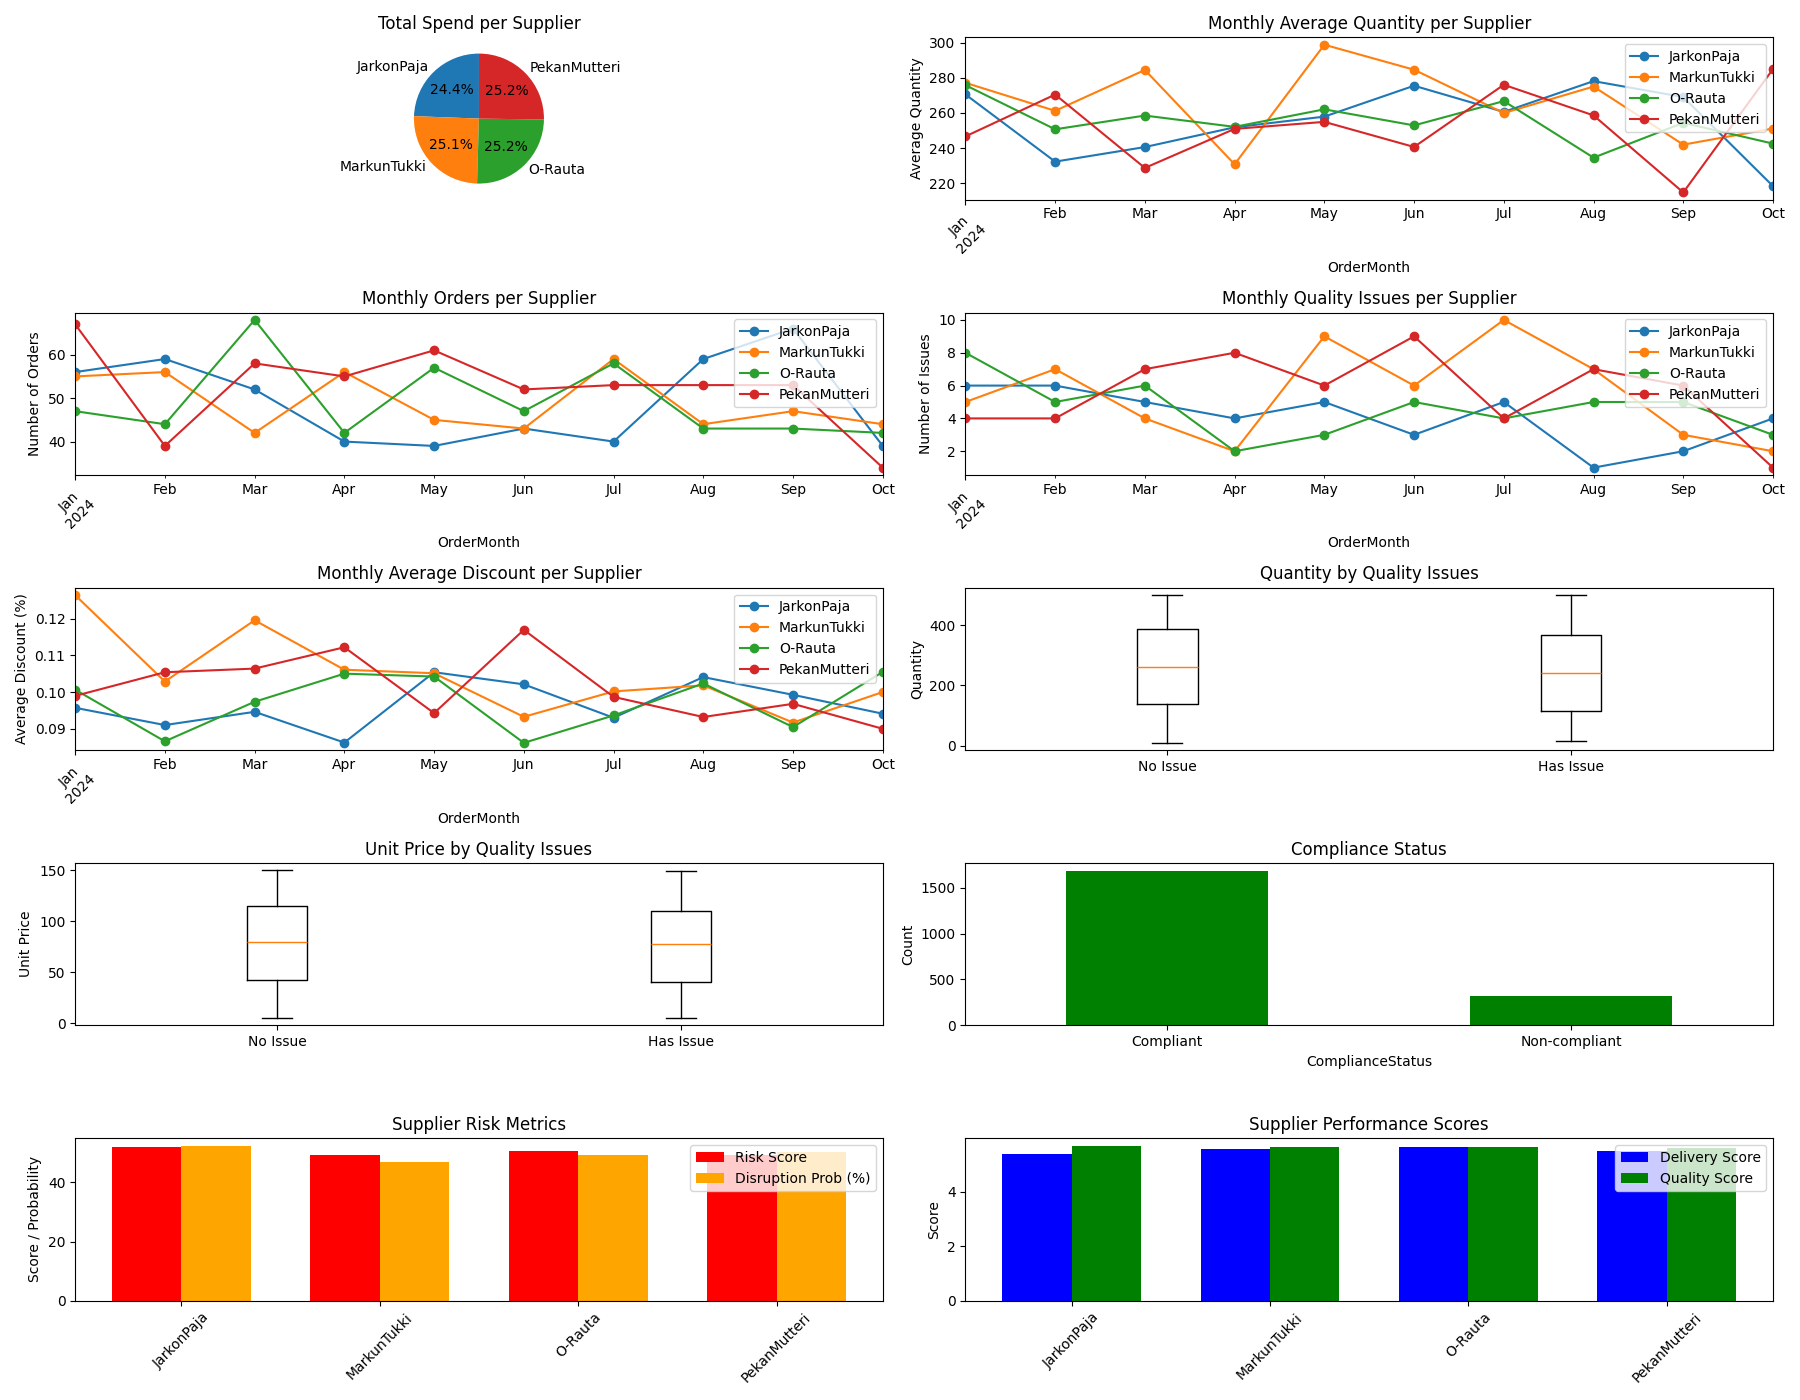
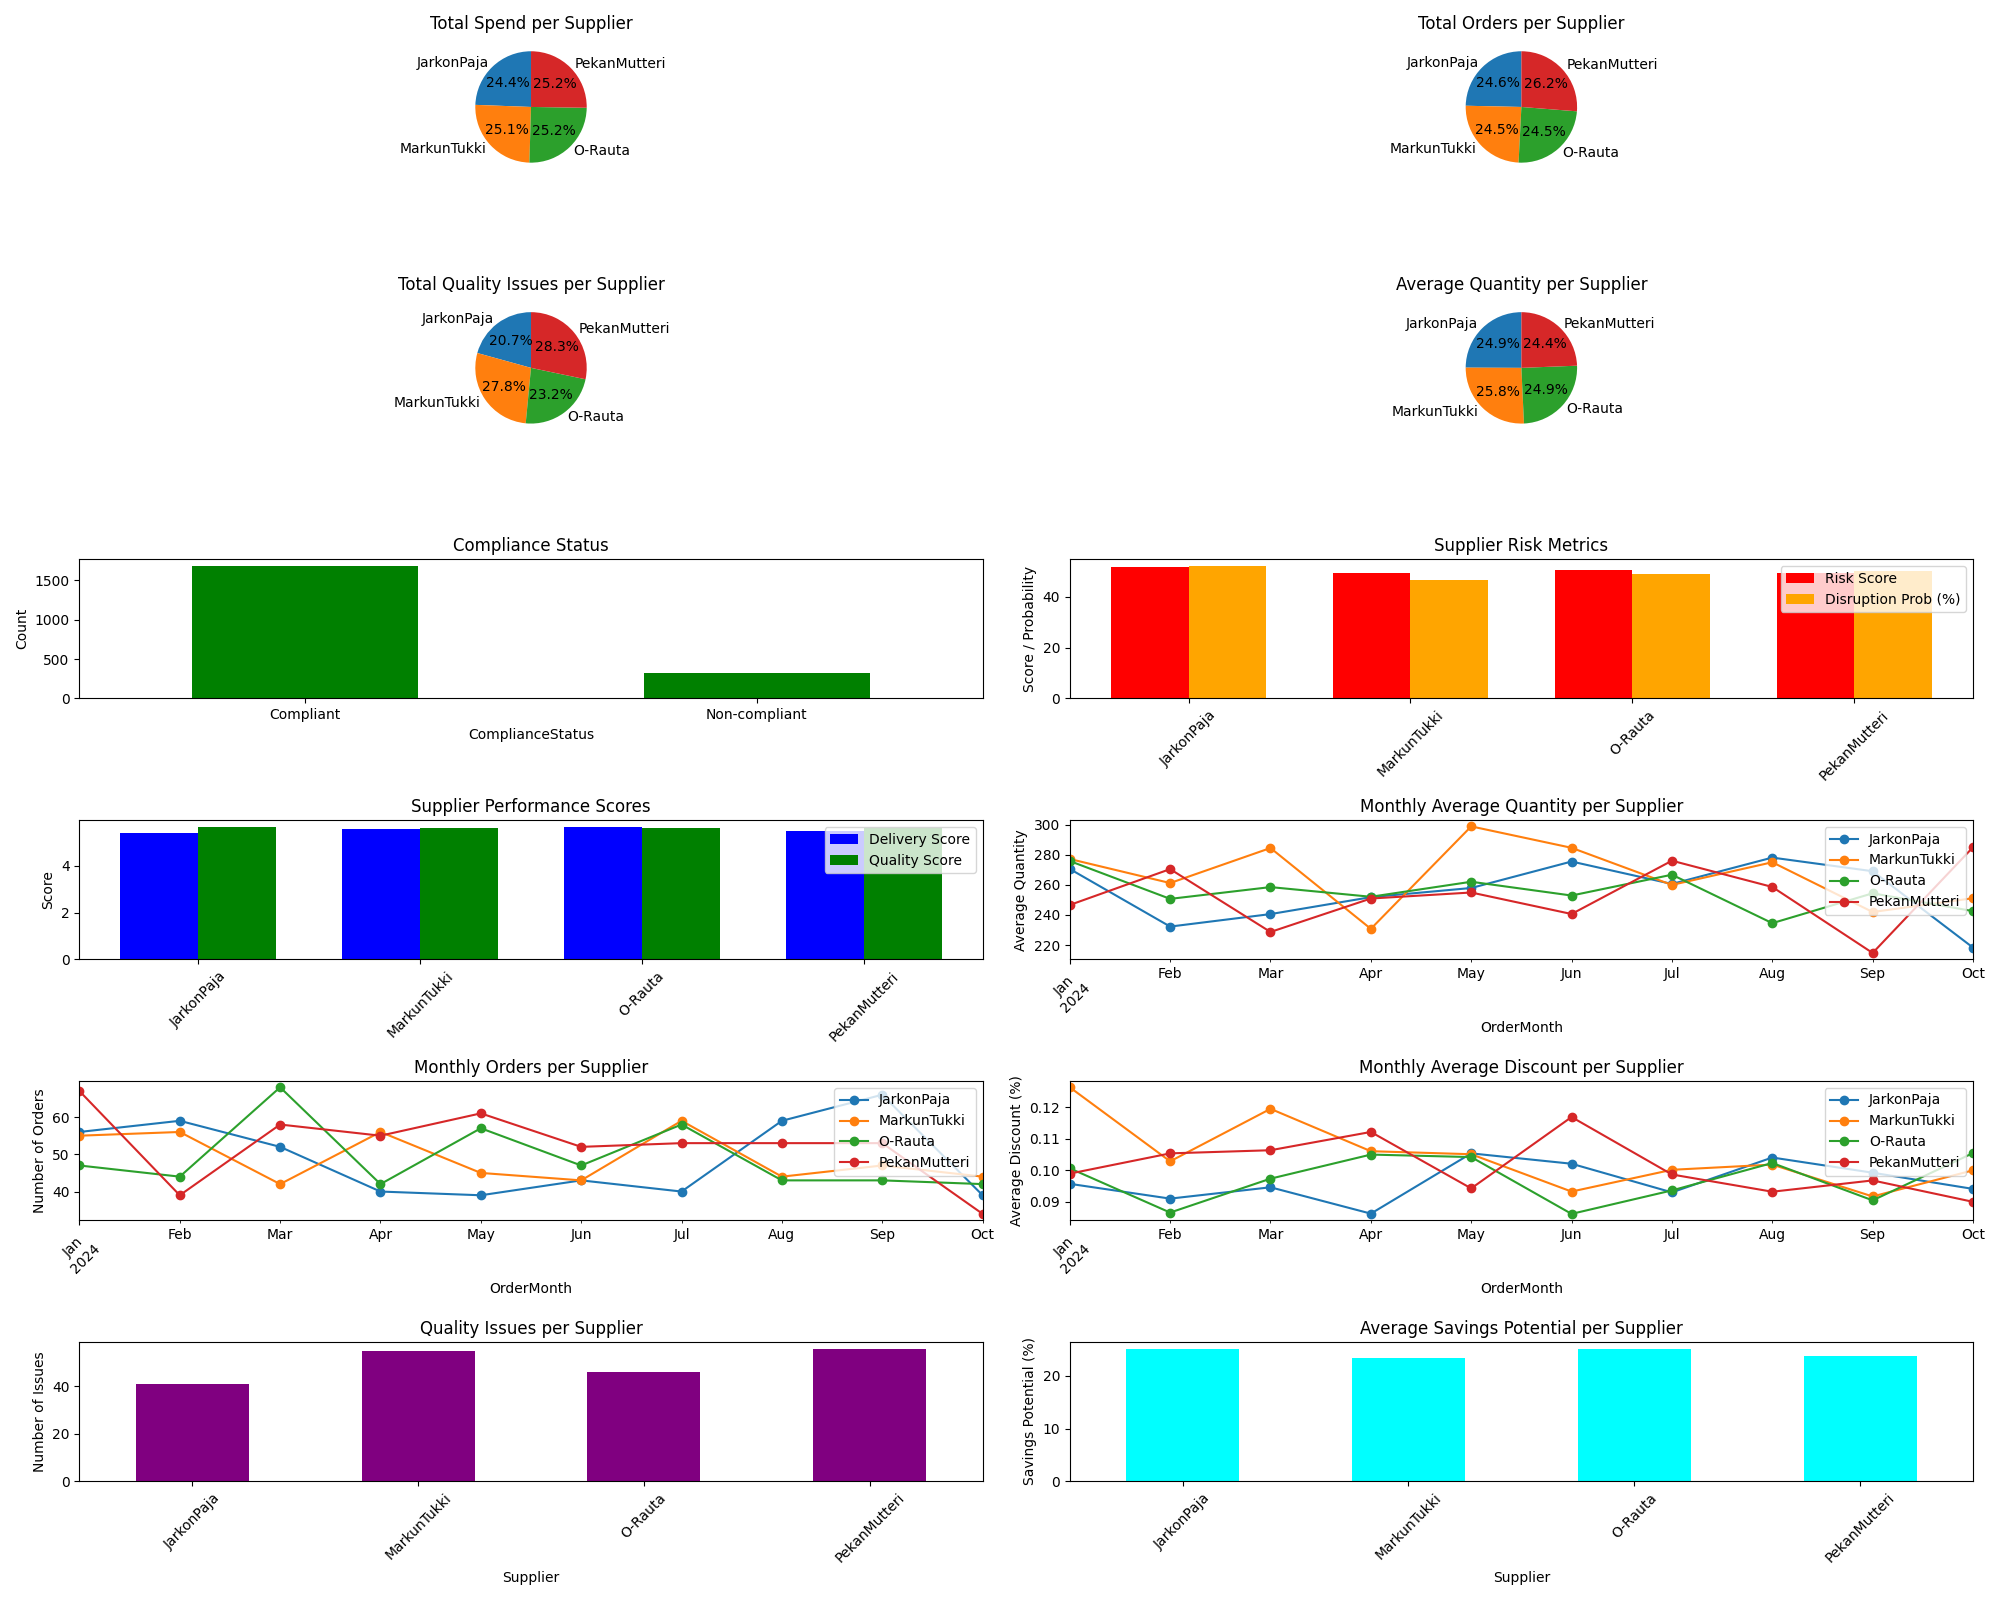
Replaced quality issue box plots with bar chart and added pie charts for orders, quality issues, and avg quantity per supplier

diff --git a/analyze_data.py b/analyze_data.py
@@ -95,77 +95,42 @@ discount_supplier_month = df.groupby(['Supplier', 'OrderMonth'])['Discount'].mea
 print("\nMonthly Average Discount per Supplier:")
 print(discount_supplier_month)
 
-plt.figure(figsize=(18, 14))
-
-# Total Spend per Supplier
-plt.subplot(5, 2, 1)
-total_spend_supplier.plot(kind='pie', autopct='%1.1f%%', startangle=90)
-plt.title('Total Spend per Supplier')
-plt.ylabel('')
-
-# Monthly Average Quantity per Supplier
-plt.subplot(5, 2, 2)
-for supplier in quantity_supplier_month.index:
-    quantity_supplier_month.loc[supplier].plot(kind='line', marker='o', label=supplier)
-plt.title('Monthly Average Quantity per Supplier')
-plt.ylabel('Average Quantity')
-plt.xticks(rotation=45)
-plt.legend()
-
-# Monthly Orders per Supplier
-plt.subplot(5, 2, 3)
-for supplier in orders_supplier_month.index:
-    orders_supplier_month.loc[supplier].plot(kind='line', marker='o', label=supplier)
-plt.title('Monthly Orders per Supplier')
-plt.ylabel('Number of Orders')
-plt.xticks(rotation=45)
-plt.legend()
-
-# Monthly Quality Issues per Supplier
-plt.subplot(5, 2, 4)
-for supplier in issues_supplier_month.index:
-    issues_supplier_month.loc[supplier].plot(kind='line', marker='o', label=supplier)
-plt.title('Monthly Quality Issues per Supplier')
-plt.ylabel('Number of Issues')
-plt.xticks(rotation=45)
-plt.legend()
-
-# Monthly Average Discount per Supplier
-plt.subplot(5, 2, 5)
-for supplier in discount_supplier_month.index:
-    discount_supplier_month.loc[supplier].plot(kind='line', marker='o', label=supplier)
-plt.title('Monthly Average Discount per Supplier')
-plt.ylabel('Average Discount (%)')
-plt.xticks(rotation=45)
-plt.legend()
+total_orders_supplier = df.groupby('Supplier').size()
+avg_quantity_supplier = df.groupby('Supplier')['Quantity'].mean()
 
 # Quality issues impact
 quality_df = df.copy()
 quality_df['HasQualityIssue'] = (df['QualityIssues'] == 'Yes').astype(int)
 
-# Quantity vs Quality Issues
-plt.subplot(5, 2, 6)
-no_issue_qty = quality_df[quality_df['HasQualityIssue'] == 0]['Quantity']
-yes_issue_qty = quality_df[quality_df['HasQualityIssue'] == 1]['Quantity']
-plt.boxplot([no_issue_qty, yes_issue_qty], tick_labels=['No Issue', 'Has Issue'])
-plt.title('Quantity by Quality Issues')
-plt.ylabel('Quantity')
+plt.figure(figsize=(20, 16))
 
-# UnitPrice vs Quality Issues
-plt.subplot(5, 2, 7)
-no_issue_price = quality_df[quality_df['HasQualityIssue'] == 0]['UnitPrice']
-yes_issue_price = quality_df[quality_df['HasQualityIssue'] == 1]['UnitPrice']
-plt.boxplot([no_issue_price, yes_issue_price], tick_labels=['No Issue', 'Has Issue'])
-plt.title('Unit Price by Quality Issues')
-plt.ylabel('Unit Price')
+plt.subplot(6, 2, 1)
+total_spend_supplier.plot(kind='pie', autopct='%1.1f%%', startangle=90)
+plt.title('Total Spend per Supplier')
+plt.ylabel('')
 
-plt.subplot(5, 2, 8)
+plt.subplot(6, 2, 2)
+total_orders_supplier.plot(kind='pie', autopct='%1.1f%%', startangle=90)
+plt.title('Total Orders per Supplier')
+plt.ylabel('')
+
+plt.subplot(6, 2, 3)
+quality_issues_supplier.plot(kind='pie', autopct='%1.1f%%', startangle=90)
+plt.title('Total Quality Issues per Supplier')
+plt.ylabel('')
+
+plt.subplot(6, 2, 4)
+avg_quantity_supplier.plot(kind='pie', autopct='%1.1f%%', startangle=90)
+plt.title('Average Quantity per Supplier')
+plt.ylabel('')
+
+plt.subplot(6, 2, 5)
 compliance_count.plot(kind='bar', color='green')
 plt.title('Compliance Status')
 plt.ylabel('Count')
 plt.xticks(rotation=0)
 
-plt.subplot(5, 2, 9)
+plt.subplot(6, 2, 6)
 x = np.arange(len(avg_risk_score.index))
 width = 0.35
 plt.bar(x - width/2, avg_risk_score, width, label='Risk Score', color='red')
@@ -175,7 +140,7 @@ plt.ylabel('Score / Probability')
 plt.xticks(x, avg_risk_score.index, rotation=45)
 plt.legend()
 
-plt.subplot(5, 2, 10)
+plt.subplot(6, 2, 7)
 x = np.arange(len(supplier_performance.index))
 width = 0.35
 plt.bar(x - width/2, supplier_performance['DeliveryScore'], width, label='Delivery Score', color='blue')
@@ -184,6 +149,43 @@ plt.title('Supplier Performance Scores')
 plt.ylabel('Score')
 plt.xticks(x, supplier_performance.index, rotation=45)
 plt.legend()
+
+plt.subplot(6, 2, 8)
+for supplier in quantity_supplier_month.index:
+    quantity_supplier_month.loc[supplier].plot(kind='line', marker='o', label=supplier)
+plt.title('Monthly Average Quantity per Supplier')
+plt.ylabel('Average Quantity')
+plt.xticks(rotation=45)
+plt.legend()
+
+plt.subplot(6, 2, 9)
+for supplier in orders_supplier_month.index:
+    orders_supplier_month.loc[supplier].plot(kind='line', marker='o', label=supplier)
+plt.title('Monthly Orders per Supplier')
+plt.ylabel('Number of Orders')
+plt.xticks(rotation=45)
+plt.legend()
+
+plt.subplot(6, 2, 10)
+for supplier in discount_supplier_month.index:
+    discount_supplier_month.loc[supplier].plot(kind='line', marker='o', label=supplier)
+plt.title('Monthly Average Discount per Supplier')
+plt.ylabel('Average Discount (%)')
+plt.xticks(rotation=45)
+plt.legend()
+
+plt.subplot(6, 2, 11)
+quality_issues_supplier.plot(kind='bar', color='purple')
+plt.title('Quality Issues per Supplier')
+plt.ylabel('Number of Issues')
+plt.xticks(rotation=45)
+
+plt.subplot(6, 2, 12)
+avg_savings_supplier = df.groupby('Supplier')['SavingsPotential'].mean()
+avg_savings_supplier.plot(kind='bar', color='cyan')
+plt.title('Average Savings Potential per Supplier')
+plt.ylabel('Savings Potential (%)')
+plt.xticks(rotation=45)
 
 print("\nCorrelation Matrix:")
 numeric_cols = ['Quantity', 'UnitPrice', 'Discount', 'TotalSpend', 'SavingsPotential', 'DeliveryScore', 'QualityScore', 'RiskScore', 'DisruptionProbability']
